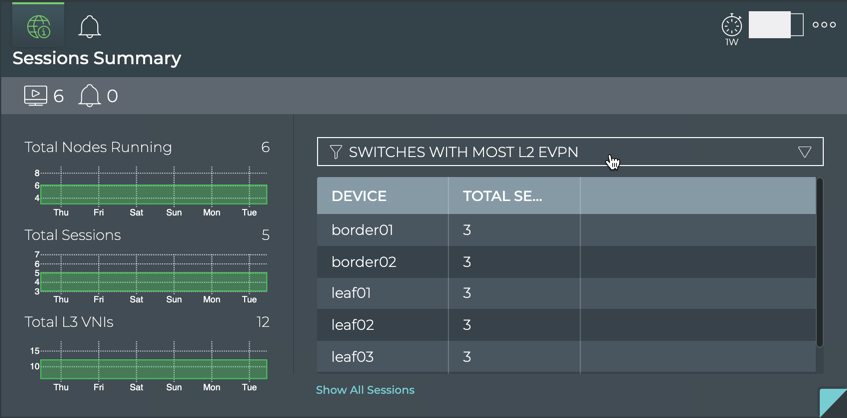
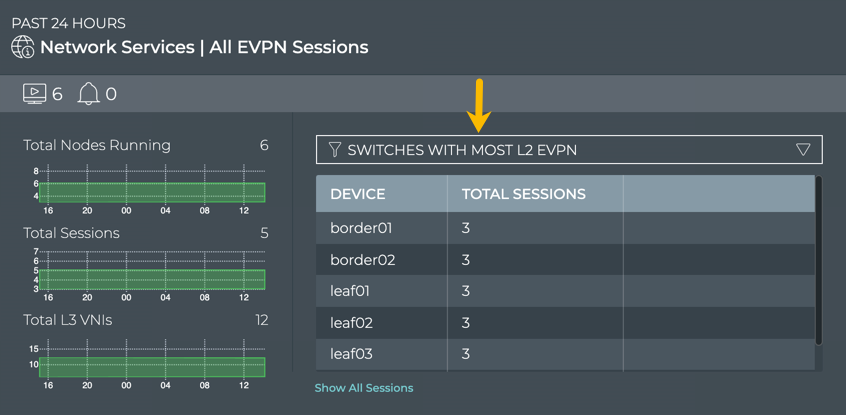
Update evpn and lldp large card images

diff --git a/content/cumulus-netq-30/Cumulus-NetQ-UI-User-Guide/Monitor-Network-Performance/Monitor-the-LLDP-Service.md b/content/cumulus-netq-30/Cumulus-NetQ-UI-User-Guide/Monitor-Network-Performance/Monitor-the-LLDP-Service.md
@@ -416,7 +416,7 @@ To view switches with the most unestablished LLDP sessions:
 
     The table content is sorted by this characteristic, listing nodes with the most unestablished CLAG sessions at the top. Scroll down to     view those with the fewest unestablished sessions.
 
-    {{<figure src="/images/netq/ntwk-svcs-all-lldp-large-summary-tab-most-unestab-230.png" width="500">}}
+    {{<figure src="/images/netq/ntwk-svcs-all-lldp-large-summary-tab-most-unestab-300.png" width="500">}}
 
 Where to go next depends on what data you see, but a few options include:
 

diff --git a/content/cumulus-netq-30/Cumulus-NetQ-UI-User-Guide/Monitor-Network-Performance/Monitor-the-EVPN-Service.md b/content/cumulus-netq-30/Cumulus-NetQ-UI-User-Guide/Monitor-Network-Performance/Monitor-the-EVPN-Service.md
@@ -445,7 +445,7 @@ To view switches and hosts with the most layer 3 EVPN sessions:
 
     The table content is sorted by this characteristic, listing nodes running the most layer 3 EVPN sessions at the top. Scroll down to view those with the fewest sessions.
 
-    {{< figure src="/images/netq/ntwk-svcs-all-evpn-large-summary-tab-most-l3evpn-230.png" width="500" >}}
+    {{<figure src="/images/netq/ntwk-svcs-all-evpn-large-summary-tab-most-l3evpn-300.png" width="500">}}
 
 To compare this data with the same data at a previous time:
 
